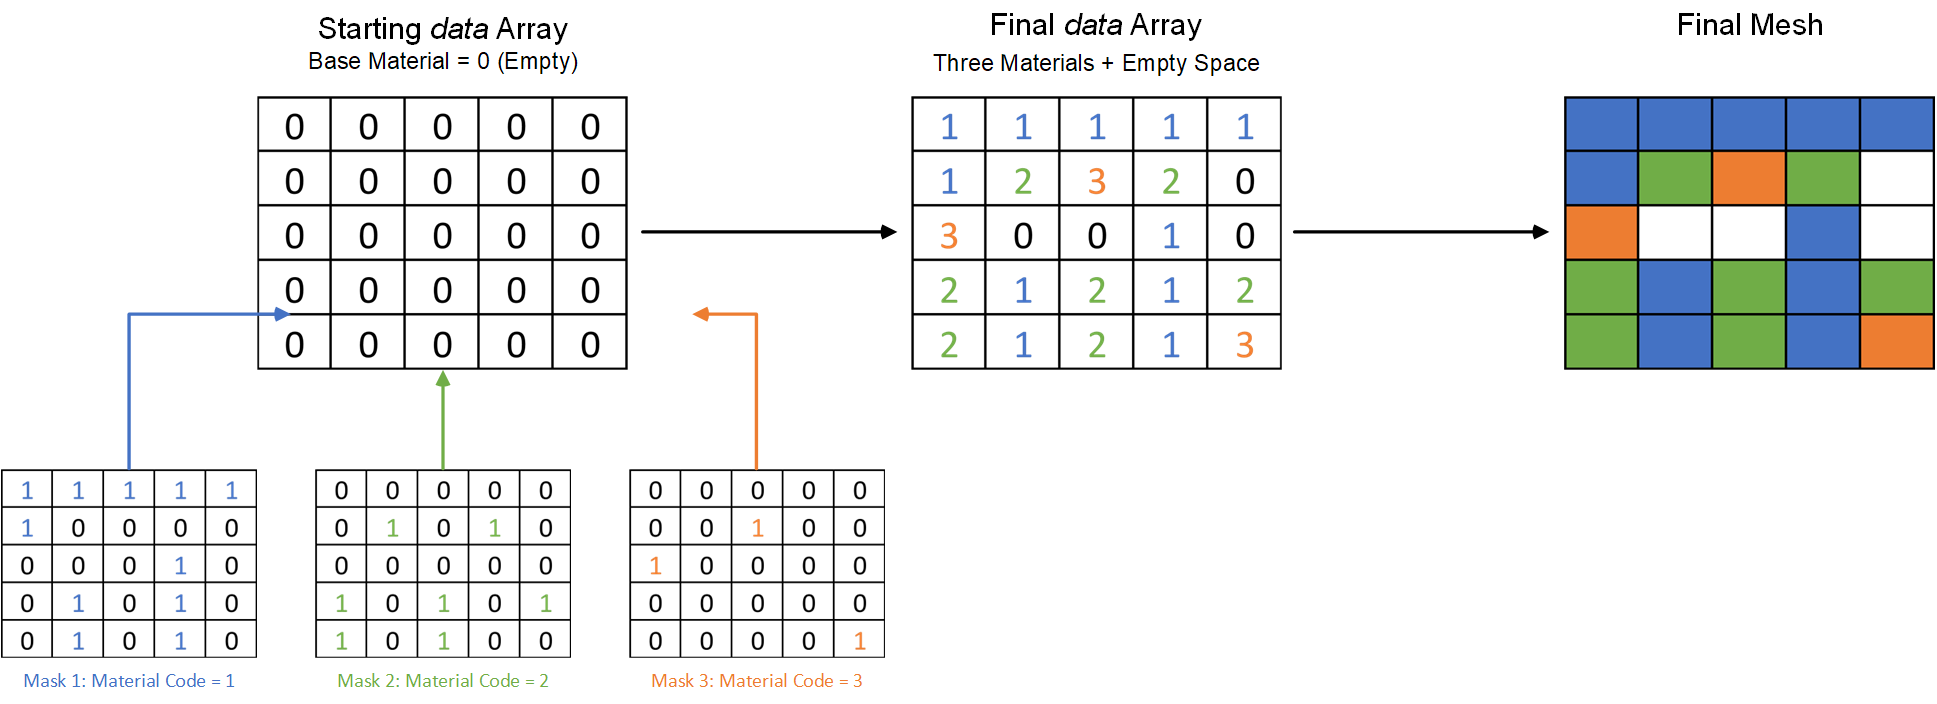
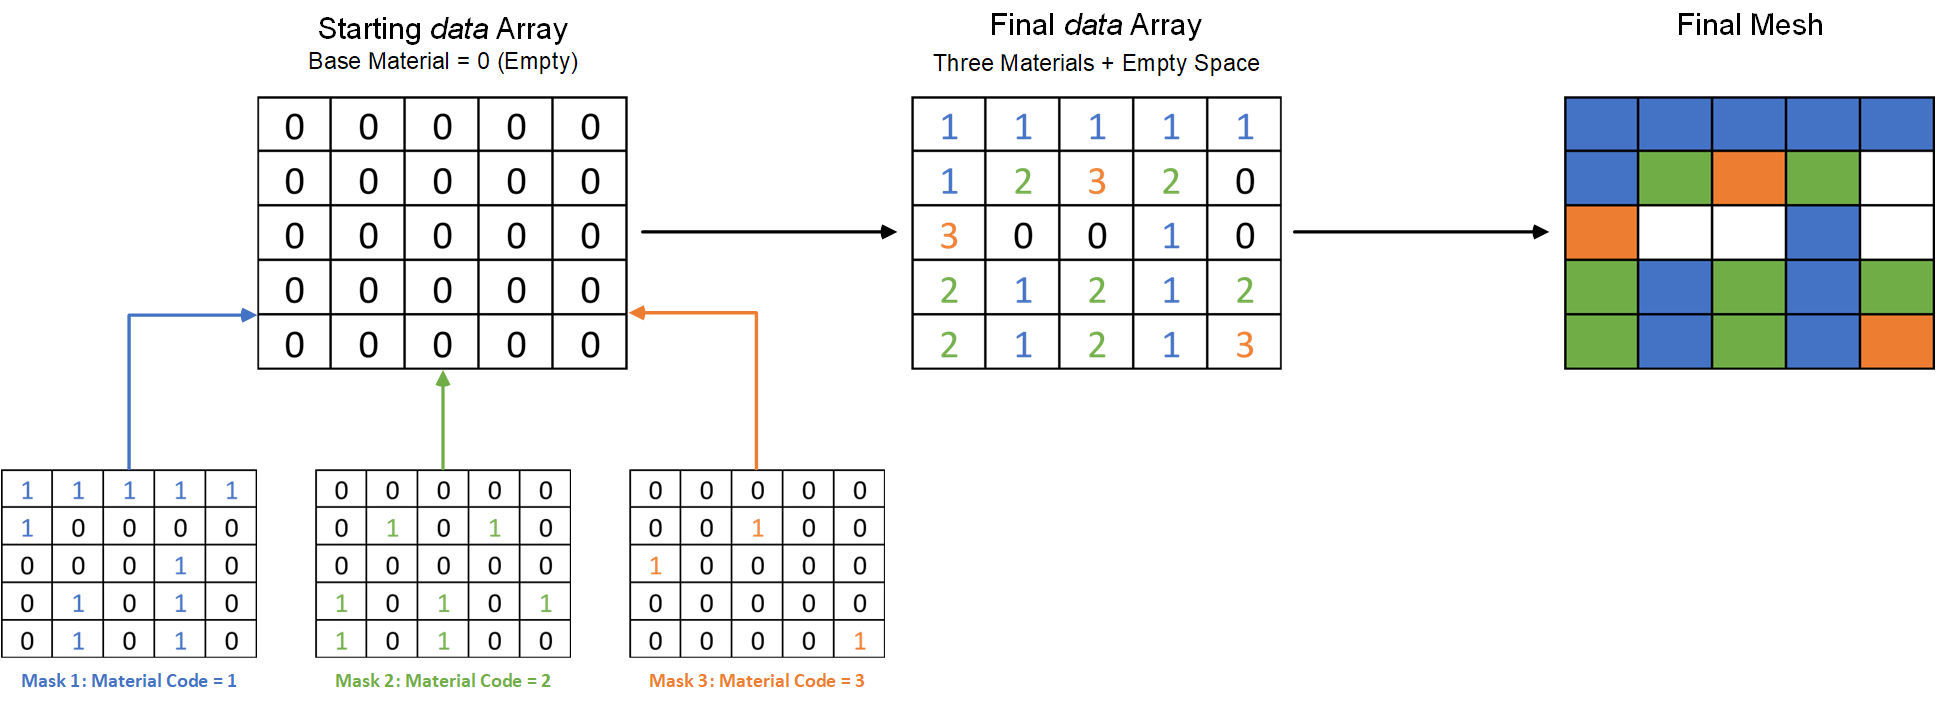
fixed some errors in docs

diff --git a/docs/source/modeling-concepts/modeling-techniques.rst b/docs/source/modeling-concepts/modeling-techniques.rst
@@ -11,10 +11,10 @@ But first, we need to define the term *Boolean mask*.
 Boolean Masks
 -------------
 A Boolean mask is an array of Boolean values (True/False) with the same shape as another array
-and is used for many operation is programming.
+and is used for many operations in programming.
 For example, it can be used to select or highlight part of an image.
 In NumPy, a Boolean mask can be used for selecting some elements
-which can then be used for manipulate the array.
+which can then be used for manipulating the array.
 
 VCAMS offers a special function for applying a Boolean mask to a VoxelPart instance.
 The :meth:`~vcams.voxelpart.VoxelPart.apply_mask` method
